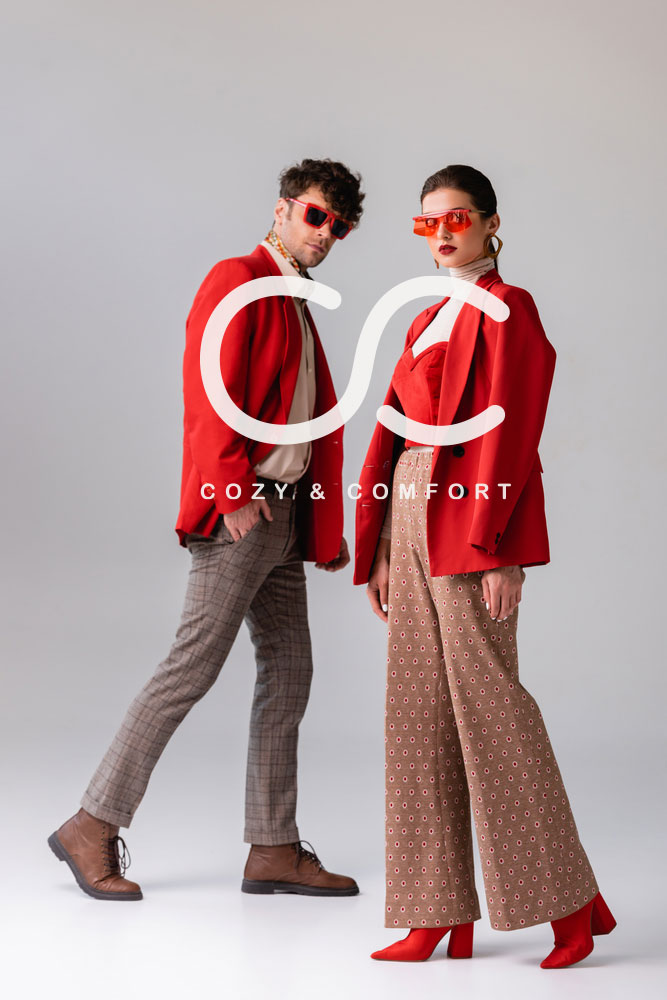
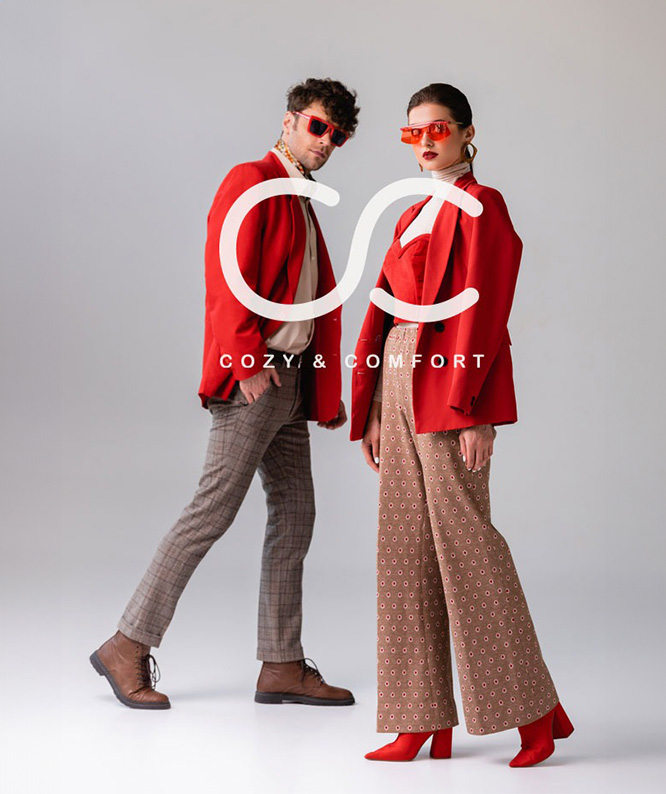
fix cozy problem

Changed region(s): [[0.0601, 0.0907, 0.9309, 0.9673]]

diff --git a/src/Pages/CozyandComfort.jsx b/src/Pages/CozyandComfort.jsx
@@ -13,8 +13,6 @@ import Img8 from "../assets/myimg/protfoilio/cozy/img8.jpg";
 import Img9 from "../assets/myimg/protfoilio/cozy/img9.jpg";
 import Img10 from "../assets/myimg/protfoilio/cozy/img10.jpg";
 
-import { Outlet } from "react-router-dom";
-
 import HeroImg from "../assets/myimg/protfoilio/cozy/headimg.jpg";
 export default function CozyandComfort() {
   useEffect(() => {
@@ -48,46 +46,46 @@ export default function CozyandComfort() {
       {/* images start */}
       <div className="container  ">
         <div className="row ">
-          <div className="col-md-12 col-lg-12 col-12 col-sm-12">
+          <div className="col-md-12 col-lg-12 col-12 col-sm-12 p-2">
             <div>
-              <img src={Img1} className="img-fluid" alt="" />
+              <img src={Img1} className="img-fluid w-full" alt="" />
             </div>
           </div>
         </div>
-        <div className="row mt-3 ">
-          <div className="col-md-7 col-lg-7 col-12 col-sm-12 ">
+        <div className="row ">
+          <div className="col-md-7 col-lg-7 col-12 col-sm-12 p-2">
             <div className="col-12">
               <img src={Img2} className="img-fluid w-full" alt="" />
             </div>
-            <div className="col-12 mt-2">
+            <div className="col-12 mt-3">
               <img src={Img5} className="img-fluid w-full" alt="" />
             </div>
           </div>
-          <div className="col-md-5 col-lg-5 col-12 col-sm-12">
+          <div className="col-md-5 col-lg-5 col-12 col-sm-12 p-2">
             <div className="col-12">
-              <img src={Img3} className="" alt="" style={{ height: "36rem" }} />
+              <img src={Img3} className="" alt="" />
             </div>
-            <div className="col-12 mt-2">
+            <div className="col-12 mt-3">
               <img src={Img4} className="img-fluid w-full" alt="" />
             </div>
-            <div className="col-12 mt-2">
+            <div className="col-12 mt-3">
               <img src={Img6} className="img-fluid " alt="" />
             </div>
           </div>
         </div>
-        <div className="row mt-2">
-          <div className="col-lg-6 col-md-6 col-12 col-sm-12 ">
-            <img src={Img7} className="" alt="" style={{ height: "43rem" }} />
+        <div className="row ">
+          <div className="col-lg-6 col-md-6 col-12 col-sm-12 p-2">
+            <img src={Img7} className="" alt="" />
           </div>
-          <div className="col-lg-6 col-md-6 col-12 col-sm-12 ">
+          <div className="col-lg-6 col-md-6 col-12 col-sm-12 p-2">
             <img src={Img8} className="img-fluid " alt="" />
           </div>
         </div>
-        <div className="row mt-2">
-          <div className="col-lg-12 col-md-12 col-12 col-sm-12 ">
+        <div className="row mt-1">
+          <div className="col-lg-12 col-md-12 col-12 col-sm-12 p-0">
             <img src={Img9} className="img-fluid " alt="" />
           </div>
-          <div className="col-lg-12 col-md-12 col-12 mt-2 col-sm-12 ">
+          <div className="col-lg-12 col-md-12 col-12 mt-2 col-sm-12 p-0 mt-3">
             <img src={Img10} className="img-fluid " alt="" />
           </div>
         </div>

diff --git a/src/Portfolio_Component/Hero.jsx b/src/Portfolio_Component/Hero.jsx
@@ -1,9 +1,6 @@
 import React from "react";
 
-
-export default function Hero({backgroundStyle,heroHeading}) {
-
-
+export default function Hero({ backgroundStyle, heroHeading }) {
   return (
     <>
       <section class="works-header d-flex align-items-end ">
@@ -21,13 +18,13 @@ export default function Hero({backgroundStyle,heroHeading}) {
                   class="fw-500 text-white title"
                   style={{ fontFamily: "'Syne', sans-serif" }}
                 >
-             {heroHeading}
+                  {heroHeading}
                 </h1>
               </div>
               <div class="row">
                 <div class="col-md-4">
                   <div class="item">
-                    <h6 style={{color:'white'}}>Client</h6>
+                    <h6 style={{ color: "white" }}>Client</h6>
                     <p class="fw-500 mt-10">
                       <a href="">Stitchers</a>
                     </p>
@@ -35,13 +32,13 @@ export default function Hero({backgroundStyle,heroHeading}) {
                 </div>
                 <div class="col-md-4">
                   <div class="item">
-                    <h6 style={{color:'white'}}>Date</h6>
+                    <h6 style={{ color: "white" }}>Date</h6>
                     <p class="fw-500 mt-10">6 August 2019</p>
                   </div>
                 </div>
                 <div class="col-md-4">
                   <div class="item">
-                    <h6 style={{color:'white'}}>Tags</h6>
+                    <h6 style={{ color: "white" }}>Tags</h6>
                     <p class="fw-500 mt-10">
                       <a href="#0">Minimal</a> , <a href="#0">Modern</a> ,{" "}
                       <a href="#0">Design</a>

diff --git a/src/App.jsx b/src/App.jsx
@@ -11,21 +11,24 @@ import Porotfilio from "./Pages/Portfolio";
 import Stitchers from "./Pages/Stitchers";
 import Contact from "./Pages/Contact";
 import CozyandComfort from "./Pages/CozyandComfort";
+import ScrollTotop from "./Component/ScrollTotop";
 
 export default function App() {
   return (
     <>
       <BrowserRouter>
         <Navabar logo={Logo}></Navabar>
+        <ScrollTotop></ScrollTotop>
         <Routes>
           <Route path="/" element={<Home></Home>}></Route>
           <Route path="/portfolio" element={<Porotfilio></Porotfilio>}></Route>
           <Route path="/contact" element={<Contact></Contact>}></Route>
-          
-           
-          
-            <Route path="/portfolio/stitchers" element={<Stitchers />}></Route>
-            <Route path="/portfolio/cozy&comfort" element={<CozyandComfort></CozyandComfort>}></Route>
+
+          <Route path="/portfolio/stitchers" element={<Stitchers />}></Route>
+          <Route
+            path="/portfolio/cozy&comfort"
+            element={<CozyandComfort></CozyandComfort>}
+          ></Route>
         </Routes>
       </BrowserRouter>
     </>

diff --git a/src/Component/Footer.jsx b/src/Component/Footer.jsx
@@ -12,9 +12,9 @@ export default function Footer() {
                 <h3>
                   We develop digital future.
                   <span className="mt-10 l-block">
-                    <a href="pg-contact2.html">
+                    <Link to="contact">
                       <span className="main-color">Contact us</span>.
-                    </a>
+                    </Link>
                   </span>
                 </h3>
               </div>
@@ -64,7 +64,7 @@ export default function Footer() {
               </div>
               <div className="col-lg-6 pt-2">
                 <div className="copyrights full-width d-flex justify-content-end align-content-center">
-                  <p className="fz-13" style={{fontFamily:" !important"}}>
+                  <p className="fz-13" style={{ fontFamily: " !important" }}>
                     © 2024 MarcelTech. All Rights Reserved
                   </p>
                 </div>

diff --git a/src/Component/ScrollTotop.jsx b/src/Component/ScrollTotop.jsx
@@ -1,0 +1,29 @@
+// import { useEffect } from "react";
+// import { useLocation } from "react-router-dom";
+
+// export default function ScrollTotop() {
+//   const { pathname } = useLocation();
+
+//   useEffect(() => {
+//     window.scrollTo(0, 0);
+//   }, [pathname]);
+
+//   return null;
+// }
+import { useEffect } from "react";
+import { useLocation } from "react-router-dom";
+
+export default function ScrollTotop() {
+  const { pathname } = useLocation();
+
+  useEffect(() => {
+    // "document.documentElement.scrollTo" is the magic for React Router Dom v6
+    document.documentElement.scrollTo({
+      top: 0,
+      left: 0,
+      behavior: "instant", // Optional if you want to skip the scrolling animation
+    });
+  }, [pathname]);
+
+  return null;
+}

diff --git a/src/Pages/Stitchers.jsx b/src/Pages/Stitchers.jsx
@@ -21,7 +21,7 @@ export default function Portfolio() {
   };
   return (
     <>
-      <Hero backgroundStyle={backgroundStyle} heroHeading="Stitchers"/>
+      <Hero backgroundStyle={backgroundStyle} heroHeading="Stitchers" />
       <Main />
       <Footer />
       <Outlet></Outlet>

diff --git a/index.html b/index.html
@@ -29,7 +29,6 @@
   </head>
   <body
     style="
-      
       color: #000;
       font-family: 'Inter', sans-serif;
       font-family: 'Poppins', sans-serif;
